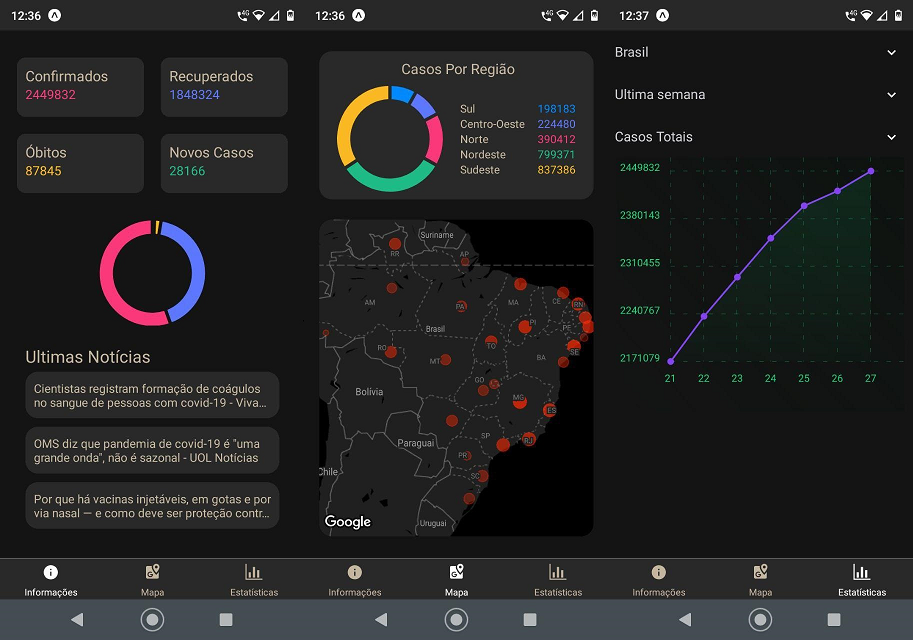
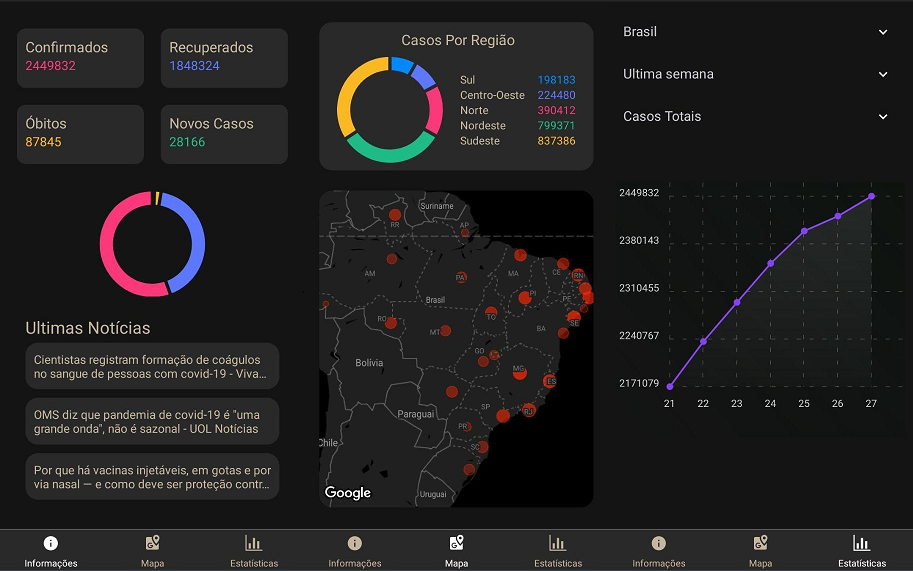
Ajustes na StatisticsScreen

diff --git a/screens/StatisticsScreen.js b/screens/StatisticsScreen.js
@@ -35,15 +35,15 @@ const HomeScreen = (props) => {
       label.push(`${key.slice(8, 10)}`);
       data.push(parseFloat(value[type]));
     }
-    if(type == "deaths_by_totalCases") {
-      data = data.map((v) => v*100)
+    if (type == "deaths_by_totalCases") {
+      data = data.map((v) => v * 100);
     }
-    if(limit == 30) {
-      data = data.filter((v, i) => i % 3 == 0)
-      label = label.filter((v, i) => i % 3 == 0)
+    if (limit == 30) {
+      data = data.filter((v, i) => i % 3 == 0);
+      label = label.filter((v, i) => i % 3 == 0);
     }
     return (
-      <View style={{ marginLeft: 10 }}>
+      <View style={{ marginLeft: "2.5%" }}>
         <CustomLineChart
           data={data}
           label={label}
@@ -63,73 +63,72 @@ const HomeScreen = (props) => {
     );
   return (
     <View style={styles.screen}>
-      <RNPickerSelect
-        style={{marginTop: 5}}
-        onValueChange={(value) => {
-          setState(value);
-          setReloading(true);
-        }}
-        value={state}
-        placeholder={{ label: "Brasil", value: "BR" }}
-        items={StatesList.map((state) => {
-          return { label: state.name, value: state.uf };
-        })}
-        Icon={() => {
-          return (
-            <MaterialCommunityIcons
-              name={"chevron-down"}
-              size={20}
-              color={"white"}
-              style={{ marginRight: 15, marginTop: 15 }}
-            />
-          );
-        }}
-      />
-      <RNPickerSelect
-        style={{marginTop: 5}}
-        onValueChange={(value) => {
-          setLimit(value);
-          setReloading(true);
-        }}
-        value={limit}
-        placeholder={{ label: "Ultima semana", value: 7 }}
-        items={[{ label: "Ultima mês", value: 30 }]}
-        Icon={() => {
-          return (
-            <MaterialCommunityIcons
-              name={"chevron-down"}
-              size={20}
-              color={"white"}
-              style={{ marginRight: 15, marginTop: 15 }}
-            />
-          );
-        }}
-      />
-      <RNPickerSelect
-        style={{marginTop: 5}}
-        onValueChange={(value) => {
-          setType(value);
-        }}
-        value={type}
-        placeholder={{ label: "Casos Totais", value: "totalCases" }}
-        items={[
-          { label: "N° de óbitos", value: "totalDeaths" },
-          { label: "Casos recuperados", value: "recovered" },
-          { label: "Novos Casos", value: "newCases" },
-          { label: "Casos suspeitos", value: "suspects" },
-          { label: "Letalidade", value: "deaths_by_totalCases" },
-        ]}
-        Icon={() => {
-          return (
-            <MaterialCommunityIcons
-              name={"chevron-down"}
-              size={20}
-              color={"white"}
-              style={{ marginRight: 15, marginTop: 15 }}
-            />
-          );
-        }}
-      />
+      <View style={{marginBottom:"15%", paddingHorizontal: 10, paddingTop: 10}}>
+        <RNPickerSelect
+          onValueChange={(value) => {
+            setState(value);
+            setReloading(true);
+          }}
+          value={state}
+          placeholder={{ label: "Brasil", value: "BR" }}
+          items={StatesList.map((state) => {
+            return { label: state.name, value: state.uf };
+          })}
+          Icon={() => {
+            return (
+              <MaterialCommunityIcons
+                name={"chevron-down"}
+                size={20}
+                color={"white"}
+                style={{ marginRight: 15, marginTop: 15 }}
+              />
+            );
+          }}
+        />
+        <RNPickerSelect
+          onValueChange={(value) => {
+            setLimit(value);
+            setReloading(true);
+          }}
+          value={limit}
+          placeholder={{ label: "Ultima semana", value: 7 }}
+          items={[{ label: "Ultima mês", value: 30 }]}
+          Icon={() => {
+            return (
+              <MaterialCommunityIcons
+                name={"chevron-down"}
+                size={20}
+                color={"white"}
+                style={{ marginRight: 15, marginTop: 15 }}
+              />
+            );
+          }}
+        />
+        <RNPickerSelect
+          onValueChange={(value) => {
+            setType(value);
+          }}
+          value={type}
+          placeholder={{ label: "Casos Totais", value: "totalCases" }}
+          items={[
+            { label: "N° de óbitos", value: "totalDeaths" },
+            { label: "Casos recuperados", value: "recovered" },
+            { label: "Novos Casos", value: "newCases" },
+            { label: "Casos suspeitos", value: "suspects" },
+            { label: "Letalidade", value: "deaths_by_totalCases" },
+          ]}
+          Icon={() => {
+            return (
+              <MaterialCommunityIcons
+                name={"chevron-down"}
+                size={20}
+                color={"white"}
+                style={{ marginRight: 15, marginTop: 15 }}
+              />
+            );
+          }}
+        />
+      </View>
 
       {renderChart()}
     </View>
@@ -148,7 +147,7 @@ const styles = StyleSheet.create({
     paddingTop: StatusBar.currentHeight || 0,
     justifyContent: "flex-start",
     backgroundColor: Colors.background,
-  }
+  },
 });
 
 export default HomeScreen;

diff --git a/components/CustomLineChart.js b/components/CustomLineChart.js
@@ -9,7 +9,7 @@ const CustomLineChart = (props) => {
     backgroundGradientFromOpacity: 0,
     backgroundGradientTo: props.backgroundColor,
     backgroundGradientToOpacity: 0.5,
-    color: (opacity = 1) => `rgba(26, 255, 146, ${opacity})`,
+    color: (opacity = 1) => `rgba(255, 255, 255, ${opacity})`,
     strokeWidth: 2, 
     barPercentage: 0.5,
     useShadowColorFromDataset: false
@@ -28,7 +28,7 @@ const CustomLineChart = (props) => {
   return (
     <LineChart
       data={data}
-      width={Math.round(Dimensions.get('window').width - 20)}
+      width={Math.round(Dimensions.get('window').width  * 0.95)}
       height={300}
       chartConfig={chartConfig}
       formatYLabel={(label) => {
